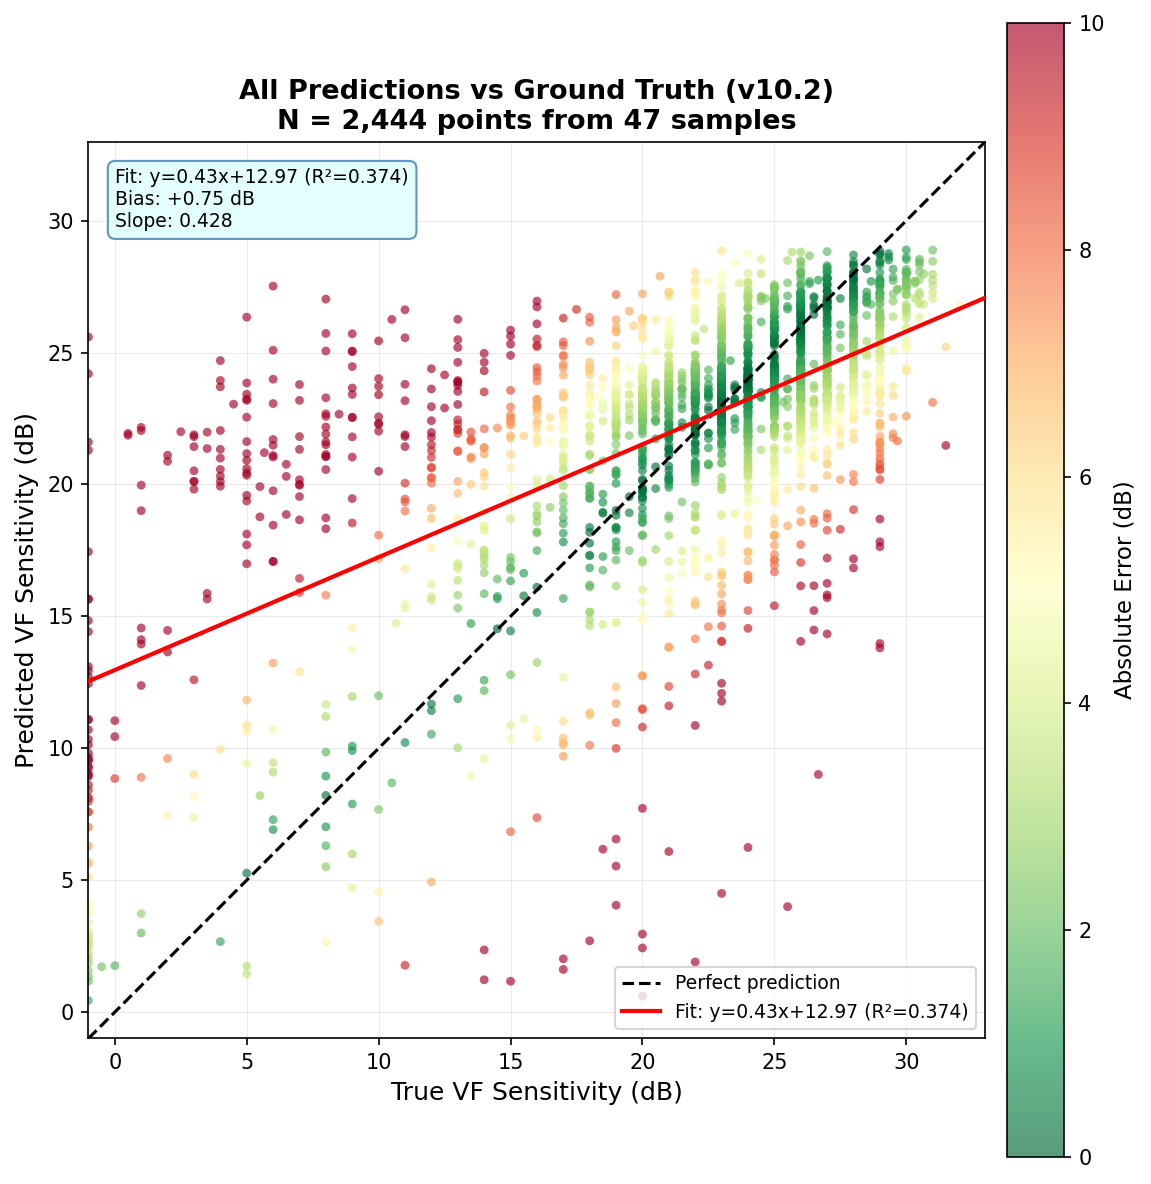
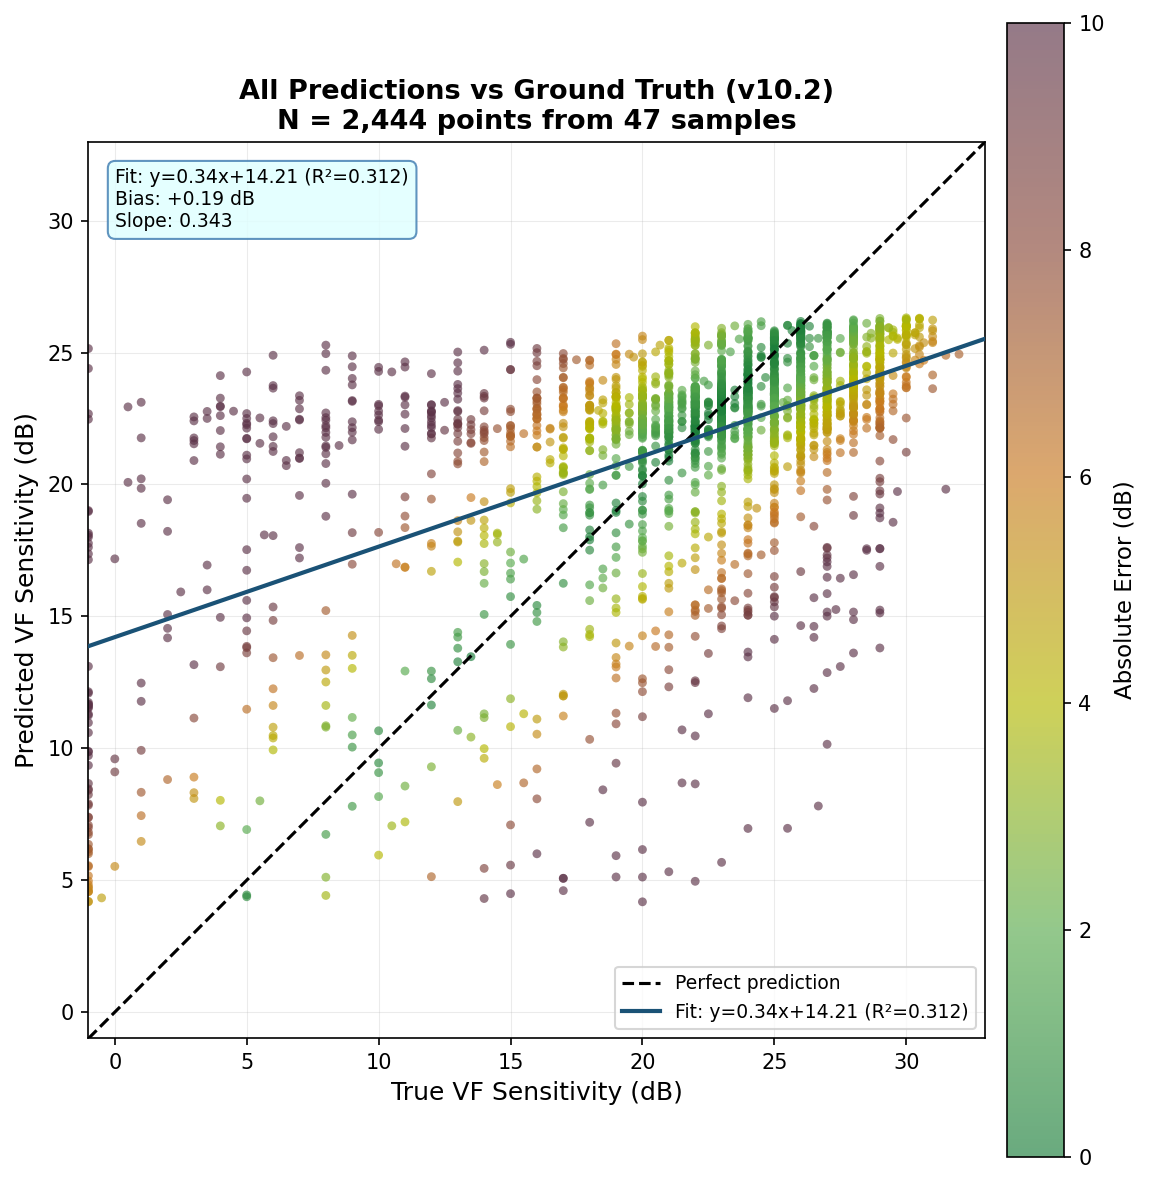
current changes

diff --git a/decoder/generate_scatterplot.py b/decoder/generate_scatterplot.py
@@ -360,8 +360,21 @@ def main():
     # ── Plot ──────────────────────────────────────────────────
     fig, ax = plt.subplots(figsize=(8, 8))
 
-    cmap   = plt.cm.RdYlGn_r
-    norm   = mcolors.Normalize(vmin=0, vmax=10)
+    # Custom colormap: dark green (0 dB error) → muted gold (5 dB) → slate/brown (10 dB).
+    # Replaces the neon yellow of RdYlGn_r with a darker gold that prints clearly,
+    # and replaces the saturated red with a muted slate-brown to reduce visual dominance.
+    cmap = mcolors.LinearSegmentedColormap.from_list(
+        'vf_err',
+        [
+            '#1a7d3a',   # 0 dB  — deep green
+            '#5aab4e',   # 2 dB  — mid green
+            '#b5b800',   # 4 dB  — dark olive-gold (replaces neon yellow)
+            '#c97a20',   # 6 dB  — warm amber-orange
+            '#8b4a3a',   # 8 dB  — muted rust
+            '#5c3348',   # 10 dB — dark plum-brown (replaces bright red)
+        ]
+    )
+    norm = mcolors.Normalize(vmin=0, vmax=10)
 
     sc = ax.scatter(
         all_true, all_pred,
@@ -377,7 +390,7 @@ def main():
 
     x_line = np.linspace(lim[0], lim[1], 200)
     y_line = slope * x_line + intercept
-    ax.plot(x_line, y_line, 'r-', linewidth=2,
+    ax.plot(x_line, y_line, color='#1a5276', linewidth=2,
             label=f'Fit: y={slope:.2f}x+{intercept:.2f} (R²={r2:.3f})', zorder=4)
 
     cb = plt.colorbar(sc, ax=ax, pad=0.02)